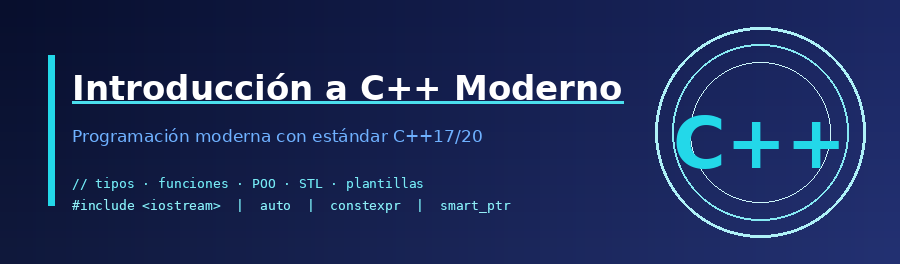
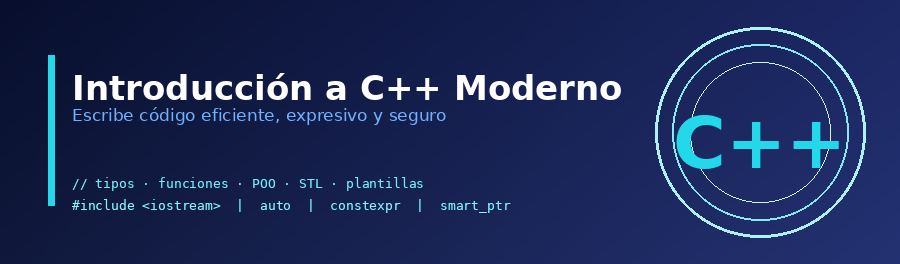
Nuevo curso

Changed region(s): [[0.0622, 0.4242, 0.5289, 0.5455], [0.0622, 0.3636, 0.7156, 0.3939]]

diff --git a/apps/plataforma/src/content/cursos/poo_cpp_moderno/index.md b/apps/plataforma/src/content/cursos/poo_cpp_moderno/index.md
@@ -2,8 +2,31 @@
 title: "Curso de Programación Orientada a Objetos con C++ moderno"
 toc: false
 ---
+![poo_cpp_moderno](img/poo_cpp_moderno.png)
+
+## ¿Qué es la Programación Orientada a Objetos?
+
+La **Programación Orientada a Objetos** (POO) es el paradigma dominante en el desarrollo de software moderno. Organizar el código en torno a **clases y objetos** permite modelar problemas del mundo real de forma natural, reutilizar código de manera eficiente y construir sistemas que escalan y evolucionan con facilidad.
+
+**C++ moderno** es uno de los mejores lenguajes para aprender POO en profundidad: ofrece control total sobre la memoria, soporte nativo para los pilares del paradigma y herramientas avanzadas como punteros inteligentes, plantillas de clase y la STL.
+
+## ¿Qué aprenderás en este curso?
+
+Este curso aborda la POO con C++ desde los fundamentos hasta técnicas avanzadas de diseño:
+
+* Los cuatro pilares: **encapsulamiento**, **herencia**, **polimorfismo** y abstracción
+* Gestión de memoria dinámica con **punteros inteligentes** y el patrón RAII
+* Relaciones entre clases: dependencia, asociación, agregación y composición
+* Diseño polimórfico con **clases abstractas** e interfaces puras
+* Abstracción del comportamiento con lambdas, functores y `std::function`
+* **Plantillas de clase** y programación genérica aplicada a la STL
+* Proyecto final: sistema de dispositivos inteligentes
+
+## Repositorio
 
 * [Ejercicios y ejemplos](https://github.com/josedom24/ejercicios_curso_poo_cpp_moderno)
+
+## Curso
 
 1. Introducción a la Programación Orientada a Objetos
 
